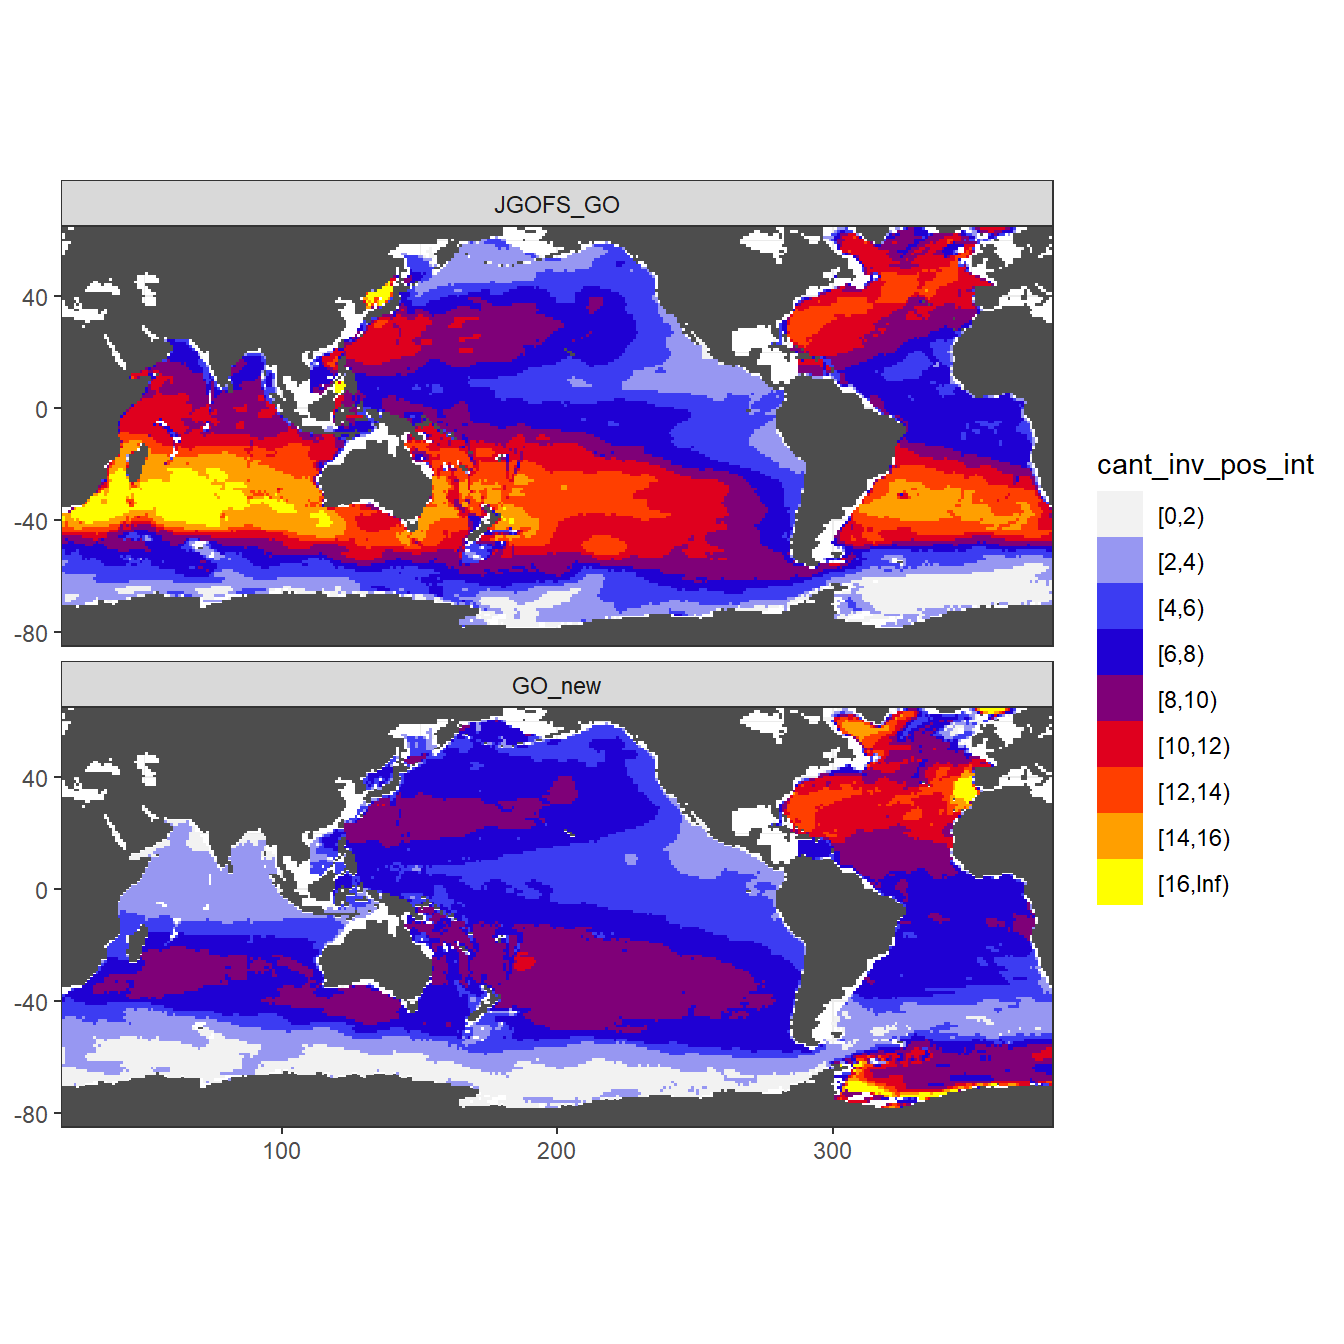
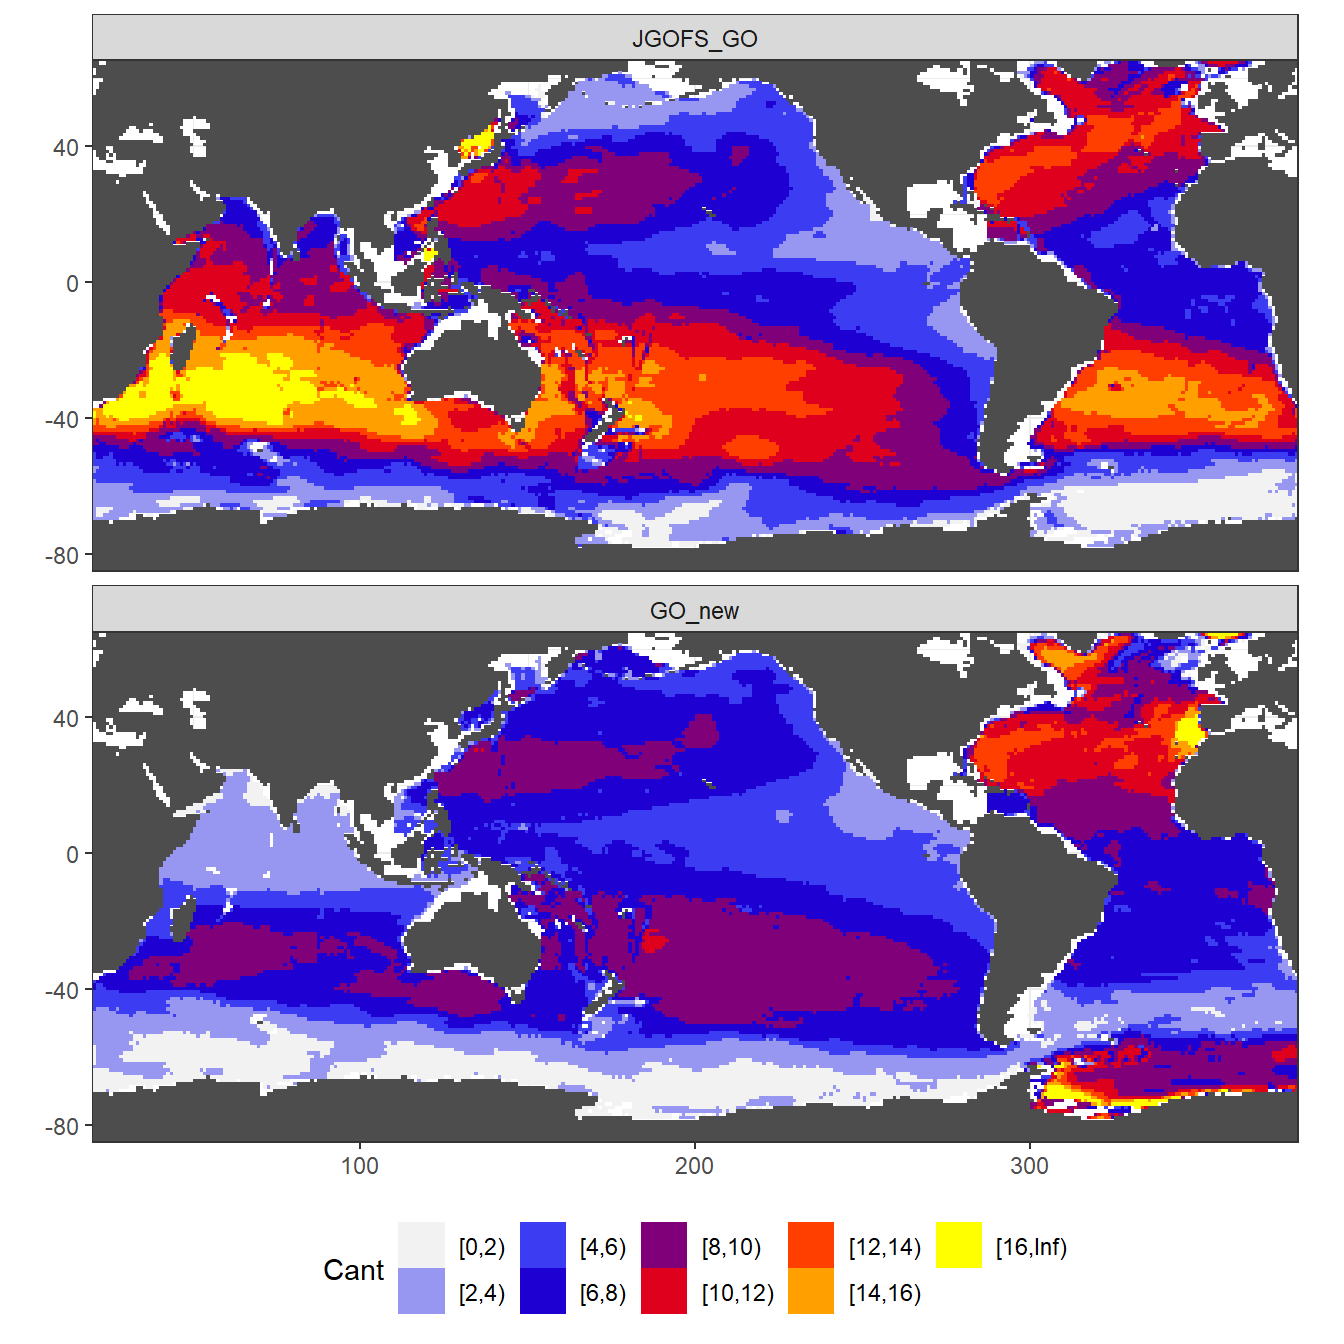
Build site.

diff --git a/docs/analysis_this_study_3d.html b/docs/analysis_this_study_3d.html
@@ -27,7 +27,6 @@
 <script src="site_libs/navigation-1.1/codefolding.js"></script>
 <link href="site_libs/highlightjs-9.12.0/textmate.css" rel="stylesheet" />
 <script src="site_libs/highlightjs-9.12.0/highlight.js"></script>
-<script src="site_libs/kePrint-0.0.1/kePrint.js"></script>
 <script src="site_libs/htmlwidgets-1.5.1/htmlwidgets.js"></script>
 <script src="site_libs/threejs-111/three.min.js"></script>
 <script src="site_libs/threejs-111/Detector.js"></script>
@@ -628,16 +627,16 @@ This reproducible <a href="http://rmarkdown.rstudio.com">R Markdown</a> analysis
 <div class="panel panel-default">
 <div class="panel-heading">
 <p class="panel-title">
-<a data-toggle="collapse" data-parent="#workflowr-checks" href="#strongRepositoryversionstrongahrefhttpsgithubcomjensdanielmuellerCanteMLRtree7d351db571985c75900dfcfc7fe2c9dd78b65a5etargetblank7d351dba"> <span class="glyphicon glyphicon-ok text-success" aria-hidden="true"></span> <strong>Repository version:</strong> <a href="https://github.com/jens-daniel-mueller/Cant_eMLR/tree/7d351db571985c75900dfcfc7fe2c9dd78b65a5e" target="_blank">7d351db</a> </a>
+<a data-toggle="collapse" data-parent="#workflowr-checks" href="#strongRepositoryversionstrongahrefhttpsgithubcomjensdanielmuellerCanteMLRtree64e261a01424ecbfdb4938a79eabdc4dd551ee2ctargetblank64e261aa"> <span class="glyphicon glyphicon-ok text-success" aria-hidden="true"></span> <strong>Repository version:</strong> <a href="https://github.com/jens-daniel-mueller/Cant_eMLR/tree/64e261a01424ecbfdb4938a79eabdc4dd551ee2c" target="_blank">64e261a</a> </a>
 </p>
 </div>
[2 lines of base64/hex data omitted]
 <div class="panel-body">
 <p>
 Great! You are using Git for version control. Tracking code development and connecting the code version to the results is critical for reproducibility.
 </p>
 <p>
-The results in this page were generated with repository version <a href="https://github.com/jens-daniel-mueller/Cant_eMLR/tree/7d351db571985c75900dfcfc7fe2c9dd78b65a5e" target="_blank">7d351db</a>. See the <em>Past versions</em> tab to see a history of the changes made to the R Markdown and HTML files.
+The results in this page were generated with repository version <a href="https://github.com/jens-daniel-mueller/Cant_eMLR/tree/64e261a01424ecbfdb4938a79eabdc4dd551ee2c" target="_blank">64e261a</a>. See the <em>Past versions</em> tab to see a history of the changes made to the R Markdown and HTML files.
 </p>
 <p>
 Note that you need to be careful to ensure that all relevant files for the analysis have been committed to Git prior to generating the results (you can use <code>wflow_publish</code> or <code>wflow_git_commit</code>). workflowr only checks the R Markdown file, but you know if there are other scripts or data files that it depends on. Below is the status of the Git repository when the results were generated:
@@ -702,6 +701,40 @@ Message
 Rmd
 </td>
 <td>
+<a href="https://github.com/jens-daniel-mueller/Cant_eMLR/blob/64e261a01424ecbfdb4938a79eabdc4dd551ee2c/analysis/analysis_this_study_3d.Rmd" target="_blank">64e261a</a>
+</td>
+<td>
+jens-daniel-mueller
+</td>
+<td>
+2020-10-01
+</td>
+<td>
+seperate globe rmd
+</td>
+</tr>
+<tr>
+<td>
+html
+</td>
+<td>
+<a href="https://rawcdn.githack.com/jens-daniel-mueller/Cant_eMLR/0d3897988730af4271782382faa58957f7ab112c/docs/analysis_this_study_3d.html" target="_blank">0d38979</a>
+</td>
+<td>
+jens-daniel-mueller
+</td>
+<td>
+2020-10-01
+</td>
+<td>
+Build site.
+</td>
+</tr>
+<tr>
+<td>
+Rmd
+</td>
+<td>
 <a href="https://github.com/jens-daniel-mueller/Cant_eMLR/blob/7d351db571985c75900dfcfc7fe2c9dd78b65a5e/analysis/analysis_this_study_3d.Rmd" target="_blank">7d351db</a>
 </td>
 <td>
@@ -733,45 +766,11 @@ library(threejs)</code></pre>
 <h1><span class="header-section-number">1</span> Data sources</h1>
 <p>Cant estimates from this study:</p>
 <ul>
-<li>Mean and SD per grid cell (lat, lon, depth)</li>
-<li>Zonal mean and SD (basin, lat, depth)</li>
 <li>Inventories (lat, lon)</li>
 </ul>
-<pre class="r"><code>Cant_average &lt;-
-  read_csv(here::here(&quot;data/mapping/_summarized_files&quot;,
-                         &quot;Cant_average.csv&quot;))
-
-Cant_average_zonal &lt;-
-  read_csv(here::here(&quot;data/mapping/_summarized_files&quot;,
-                         &quot;Cant_average_zonal.csv&quot;))
-
-Cant_predictor_average_zonal &lt;-
-  read_csv(here::here(&quot;data/mapping/_summarized_files&quot;,
-                         &quot;Cant_predictor_average_zonal.csv&quot;))
-
-Cant_inv &lt;-
+<pre class="r"><code>Cant_inv &lt;-
   read_csv(here::here(&quot;data/mapping/_summarized_files&quot;,
                          &quot;Cant_inv.csv&quot;))</code></pre>
-<p>C* estimates from this study:</p>
-<ul>
-<li>Mean and SD per grid cell (lat, lon, depth)</li>
-<li>Zonal mean and SD (basin, lat, depth)</li>
-</ul>
-<pre class="r"><code>Cstar_average &lt;-
-  read_csv(here::here(&quot;data/mapping/_summarized_files&quot;,
-                         &quot;Cstar_average.csv&quot;))
-
-Cstar_average_zonal &lt;-
-  read_csv(here::here(&quot;data/mapping/_summarized_files&quot;,
-                         &quot;Cstar_average_zonal.csv&quot;))</code></pre>
-<p>Cleaned GLODAPv2_2020 file as used in this study</p>
-<pre class="r"><code>GLODAP &lt;-
-  read_csv(
-    here::here(
-      &quot;data/GLODAPv2_2020/_summarized_data_files&quot;,
-      &quot;GLODAP_MLR_fitting_ready.csv&quot;
-    )
-  )</code></pre>
 </div>
 <div id="color-scale" class="section level1">
 <h1><span class="header-section-number">2</span> Color scale</h1>
@@ -788,92 +787,13 @@ Gruber_rainbow &lt;- colorRampPalette(cols)
 
 rm(rgb2hex, cols)</code></pre>
 </div>
-<div id="cant-budgets" class="section level1">
-<h1><span class="header-section-number">3</span> Cant budgets</h1>
-<p>Global Cant inventories were estimated in Pg-C. Please note that here we only added positive Cant values in the upper 3000m and do not apply additional corrections for areas not covered.</p>
-<pre class="r"><code>Cant_inv &lt;- left_join(Cant_inv, basinmask_AIP) 
-
-Cant_inv_budget &lt;- Cant_inv %&gt;% 
-  mutate(surface_area = earth_surf(lat, lon),
-         cant_inv_grid = cant_inv*surface_area) %&gt;% 
-  group_by(eras, basin_AIP) %&gt;% 
-  summarise(cant_total = sum(cant_inv_grid)*12*1e-15,
-            cant_total = round(cant_total,1)) %&gt;% 
-  ungroup() %&gt;% 
-  arrange(desc(eras)) %&gt;% 
-  pivot_wider(values_from = cant_total, names_from = basin_AIP) %&gt;% 
-  mutate(total = Atlantic + Indian + Pacific)
-
-Cant_inv_budget %&gt;% 
-  kableExtra::kable() %&gt;% 
-  add_header_above() %&gt;%
-  kable_styling(full_width = FALSE)</code></pre>
-<table class="table" style="width: auto !important; margin-left: auto; margin-right: auto;">
-<thead>
-<tr>
-<th style="text-align:left;">
-eras
-</th>
-<th style="text-align:right;">
-Atlantic
-</th>
-<th style="text-align:right;">
-Indian
-</th>
-<th style="text-align:right;">
-Pacific
-</th>
-<th style="text-align:right;">
-total
-</th>
-</tr>
-</thead>
-<tbody>
-<tr>
-<td style="text-align:left;">
-JGOFS_GO
-</td>
-<td style="text-align:right;">
-7.6
-</td>
-<td style="text-align:right;">
-8.9
-</td>
-<td style="text-align:right;">
-15.3
-</td>
-<td style="text-align:right;">
-31.8
-</td>
-</tr>
-<tr>
-<td style="text-align:left;">
-GO_new
-</td>
-<td style="text-align:right;">
-5.6
-</td>
-<td style="text-align:right;">
-3.5
-</td>
-<td style="text-align:right;">
-12.8
-</td>
-<td style="text-align:right;">
-21.9
-</td>
-</tr>
-</tbody>
-</table>
-<pre class="r"><code>rm(Cant_inv_budget)</code></pre>
-</div>
 <div id="cant---positive" class="section level1">
-<h1><span class="header-section-number">4</span> Cant - positive</h1>
+<h1><span class="header-section-number">3</span> Cant - positive</h1>
 <p>In a first series of plots we explore the distribution of Cant, taking only positive estimates into account (positive here refers to the mean Cant estimate across 10 eMLR model predictions available for each grid cell). Negative values were set to zero before calculating mean sections and inventories.</p>
 <div id="inventory" class="section level2">
-<h2><span class="header-section-number">4.1</span> Inventory</h2>
+<h2><span class="header-section-number">3.1</span> Inventory</h2>
 <div id="map" class="section level3">
-<h3><span class="header-section-number">4.1.1</span> Map</h3>
+<h3><span class="header-section-number">3.1.1</span> Map</h3>
 <p>Column inventory of positive Cant between the surface and 3000m water depth per horizontal grid cell (lat x lon).</p>
 <pre class="r"><code>breaks &lt;- c(seq(0,16,2),Inf)
 breaks_n &lt;- length(breaks) - 1
@@ -890,16 +810,17 @@ Cant_inv %&gt;%
               aes(lon, lat), fill = &quot;grey30&quot;) +
   geom_raster(aes(lon, lat, fill = cant_inv_pos_int)) +
   coord_quickmap(expand = 0) +
-  scale_fill_manual(values = Gruber_rainbow(breaks_n)) +
-  # scale_fill_scico_d(palette = &quot;batlow&quot;, direction = -1) +
+  scale_fill_manual(values = Gruber_rainbow(breaks_n),
+                    name = &quot;Cant&quot;) +
   facet_wrap( ~ eras, ncol = 1) +
-  theme(axis.title = element_blank())</code></pre>
+  theme(axis.title = element_blank(),
+        legend.position = &quot;bottom&quot;)</code></pre>
 <p><img src="figure/analysis_this_study_3d.Rmd/Cant_pos_inventory_map-1.png" width="672" style="display: block; margin: auto;" /></p>
 </div>
 <div id="interactive-globe" class="section level3">
-<h3><span class="header-section-number">4.1.2</span> Interactive Globe</h3>
+<h3><span class="header-section-number">3.1.2</span> Interactive Globe</h3>
 <div id="jgogs_go-eras" class="section level4">
-<h4><span class="header-section-number">4.1.2.1</span> JGOGS_GO eras</h4>
+<h4><span class="header-section-number">3.1.2.1</span> JGOGS_GO eras</h4>
 <pre class="r"><code>x &lt;- Cant_inv %&gt;%
   filter(eras == &quot;JGOFS_GO&quot;) %&gt;%
   select(lon, lat, cant_inv_pos) %&gt;%
@@ -925,7 +846,7 @@ globejs(
 <pre class="r"><code>rm(x)</code></pre>
 </div>
 <div id="go_new-eras" class="section level4">
-<h4><span class="header-section-number">4.1.2.2</span> GO_new eras</h4>
+<h4><span class="header-section-number">3.1.2.2</span> GO_new eras</h4>
 <pre class="r"><code>x &lt;- Cant_inv %&gt;%
   filter(eras == &quot;GO_new&quot;) %&gt;%
   select(lon, lat, cant_inv_pos) %&gt;%
@@ -979,24 +900,24 @@ other attached packages:
 [17] ggplot2_3.3.2    tidyverse_1.3.0  workflowr_1.6.2 
 
 loaded via a namespace (and not attached):
- [1] fs_1.4.2          lubridate_1.7.9   gsw_1.0-5         webshot_0.5.2    
- [5] httr_1.4.2        rprojroot_1.3-2   tools_4.0.2       backports_1.1.8  
- [9] R6_2.4.1          DBI_1.1.0         colorspace_1.4-1  withr_2.2.0      
-[13] tidyselect_1.1.0  compiler_4.0.2    git2r_0.27.1      cli_2.0.2        
-[17] rvest_0.3.6       xml2_1.3.2        labeling_0.3      checkmate_2.0.0  
-[21] digest_0.6.25     rmarkdown_2.3     oce_1.2-0         base64enc_0.1-3  
-[25] pkgconfig_2.0.3   htmltools_0.5.0   dbplyr_1.4.4      highr_0.8        
-[29] htmlwidgets_1.5.1 rlang_0.4.7       readxl_1.3.1      rstudioapi_0.11  
-[33] generics_0.0.2    farver_2.0.3      jsonlite_1.7.0    crosstalk_1.1.0.1
-[37] magrittr_1.5      Rcpp_1.0.5        munsell_0.5.0     fansi_0.4.1      
-[41] lifecycle_0.2.0   stringi_1.4.6     whisker_0.4       yaml_2.2.1       
-[45] grid_4.0.2        blob_1.2.1        promises_1.1.1    crayon_1.3.4     
-[49] haven_2.3.1       hms_0.5.3         seacarb_3.2.13    knitr_1.29       
-[53] pillar_1.4.6      reprex_0.3.0      glue_1.4.1        evaluate_0.14    
-[57] data.table_1.13.0 modelr_0.1.8      vctrs_0.3.2       httpuv_1.5.4     
-[61] testthat_2.3.2    cellranger_1.1.0  gtable_0.3.0      assertthat_0.2.1 
-[65] xfun_0.16         broom_0.7.0       later_1.1.0.1     viridisLite_0.3.0
-[69] ellipsis_0.3.1    here_0.1         </code></pre>
+ [1] httr_1.4.2        jsonlite_1.7.0    viridisLite_0.3.0 here_0.1         
+ [5] modelr_0.1.8      assertthat_0.2.1  blob_1.2.1        cellranger_1.1.0 
+ [9] yaml_2.2.1        pillar_1.4.6      backports_1.1.8   glue_1.4.1       
+[13] digest_0.6.25     promises_1.1.1    checkmate_2.0.0   rvest_0.3.6      
+[17] colorspace_1.4-1  htmltools_0.5.0   httpuv_1.5.4      pkgconfig_2.0.3  
+[21] broom_0.7.0       seacarb_3.2.13    haven_2.3.1       webshot_0.5.2    
+[25] whisker_0.4       later_1.1.0.1     git2r_0.27.1      farver_2.0.3     
+[29] generics_0.0.2    ellipsis_0.3.1    withr_2.2.0       cli_2.0.2        
+[33] magrittr_1.5      crayon_1.3.4      readxl_1.3.1      evaluate_0.14    
+[37] fs_1.4.2          fansi_0.4.1       xml2_1.3.2        oce_1.2-0        
+[41] tools_4.0.2       data.table_1.13.0 hms_0.5.3         lifecycle_0.2.0  
+[45] munsell_0.5.0     reprex_0.3.0      gsw_1.0-5         compiler_4.0.2   
+[49] rlang_0.4.7       grid_4.0.2        rstudioapi_0.11   htmlwidgets_1.5.1
+[53] crosstalk_1.1.0.1 labeling_0.3      base64enc_0.1-3   rmarkdown_2.3    
+[57] testthat_2.3.2    gtable_0.3.0      DBI_1.1.0         R6_2.4.1         
+[61] lubridate_1.7.9   knitr_1.29        rprojroot_1.3-2   stringi_1.4.6    
+[65] Rcpp_1.0.5        vctrs_0.3.2       dbplyr_1.4.4      tidyselect_1.1.0 
+[69] xfun_0.16        </code></pre>
 </div>
 </div>
 </div>
